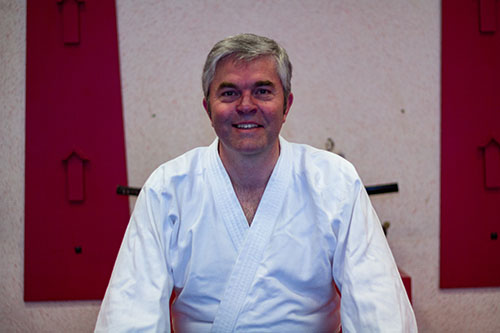
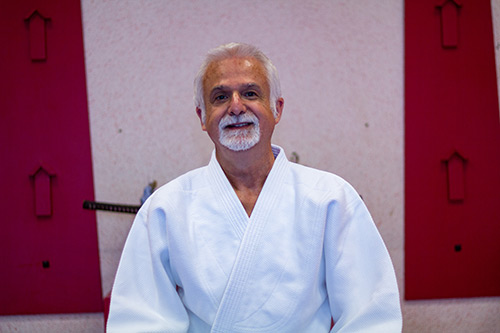
welcome serge

diff --git a/source/templates/about.html b/source/templates/about.html
@@ -56,7 +56,7 @@
 
                 <div class="col-sm-4" itemscope itemtype="http://data-vocabulary.org/Person" itemref="acg-org">
                     <img class="img-responsive  img-rounded" src="images/bureau/secretaire.jpg" itemprop="photo">
-                    <center><h3><span itemprop="name">Jean-Luc Bouriant</span><br/><small><span itemprop="title">Secrétaire</span></small></h3></center>
+                    <center><h3><span itemprop="name">Serge Delmas</span><br/><small><span itemprop="title">Secrétaire</span></small></h3></center>
                 </div>
                 <div class="col-sm-4" itemscope itemtype="http://data-vocabulary.org/Person" itemref="acg-org">
                     <img class="img-responsive  img-rounded" src="images/bureau/tresorier.jpg" itemprop="photo">
